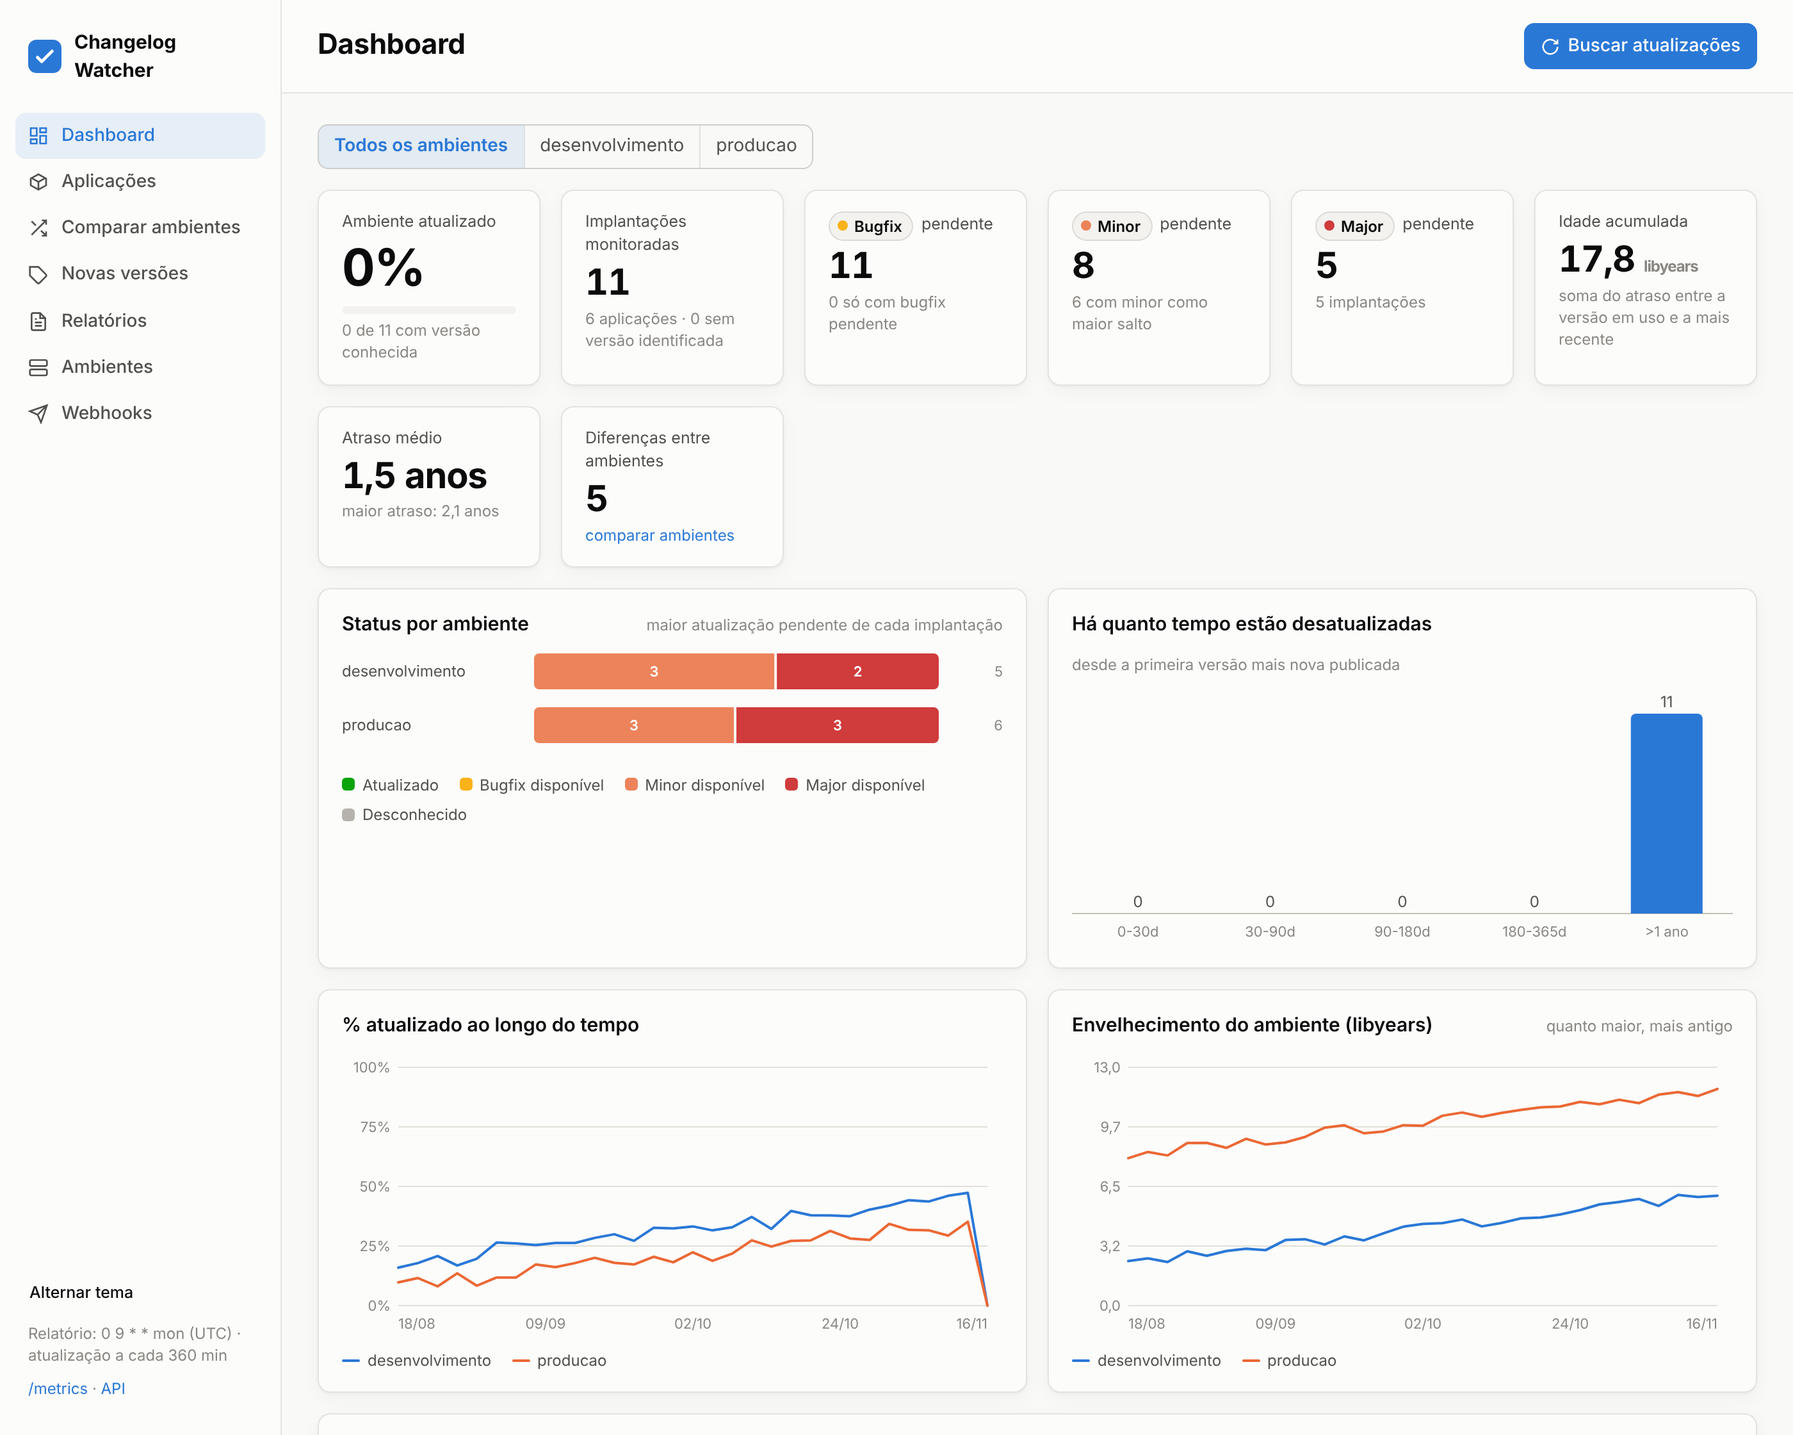
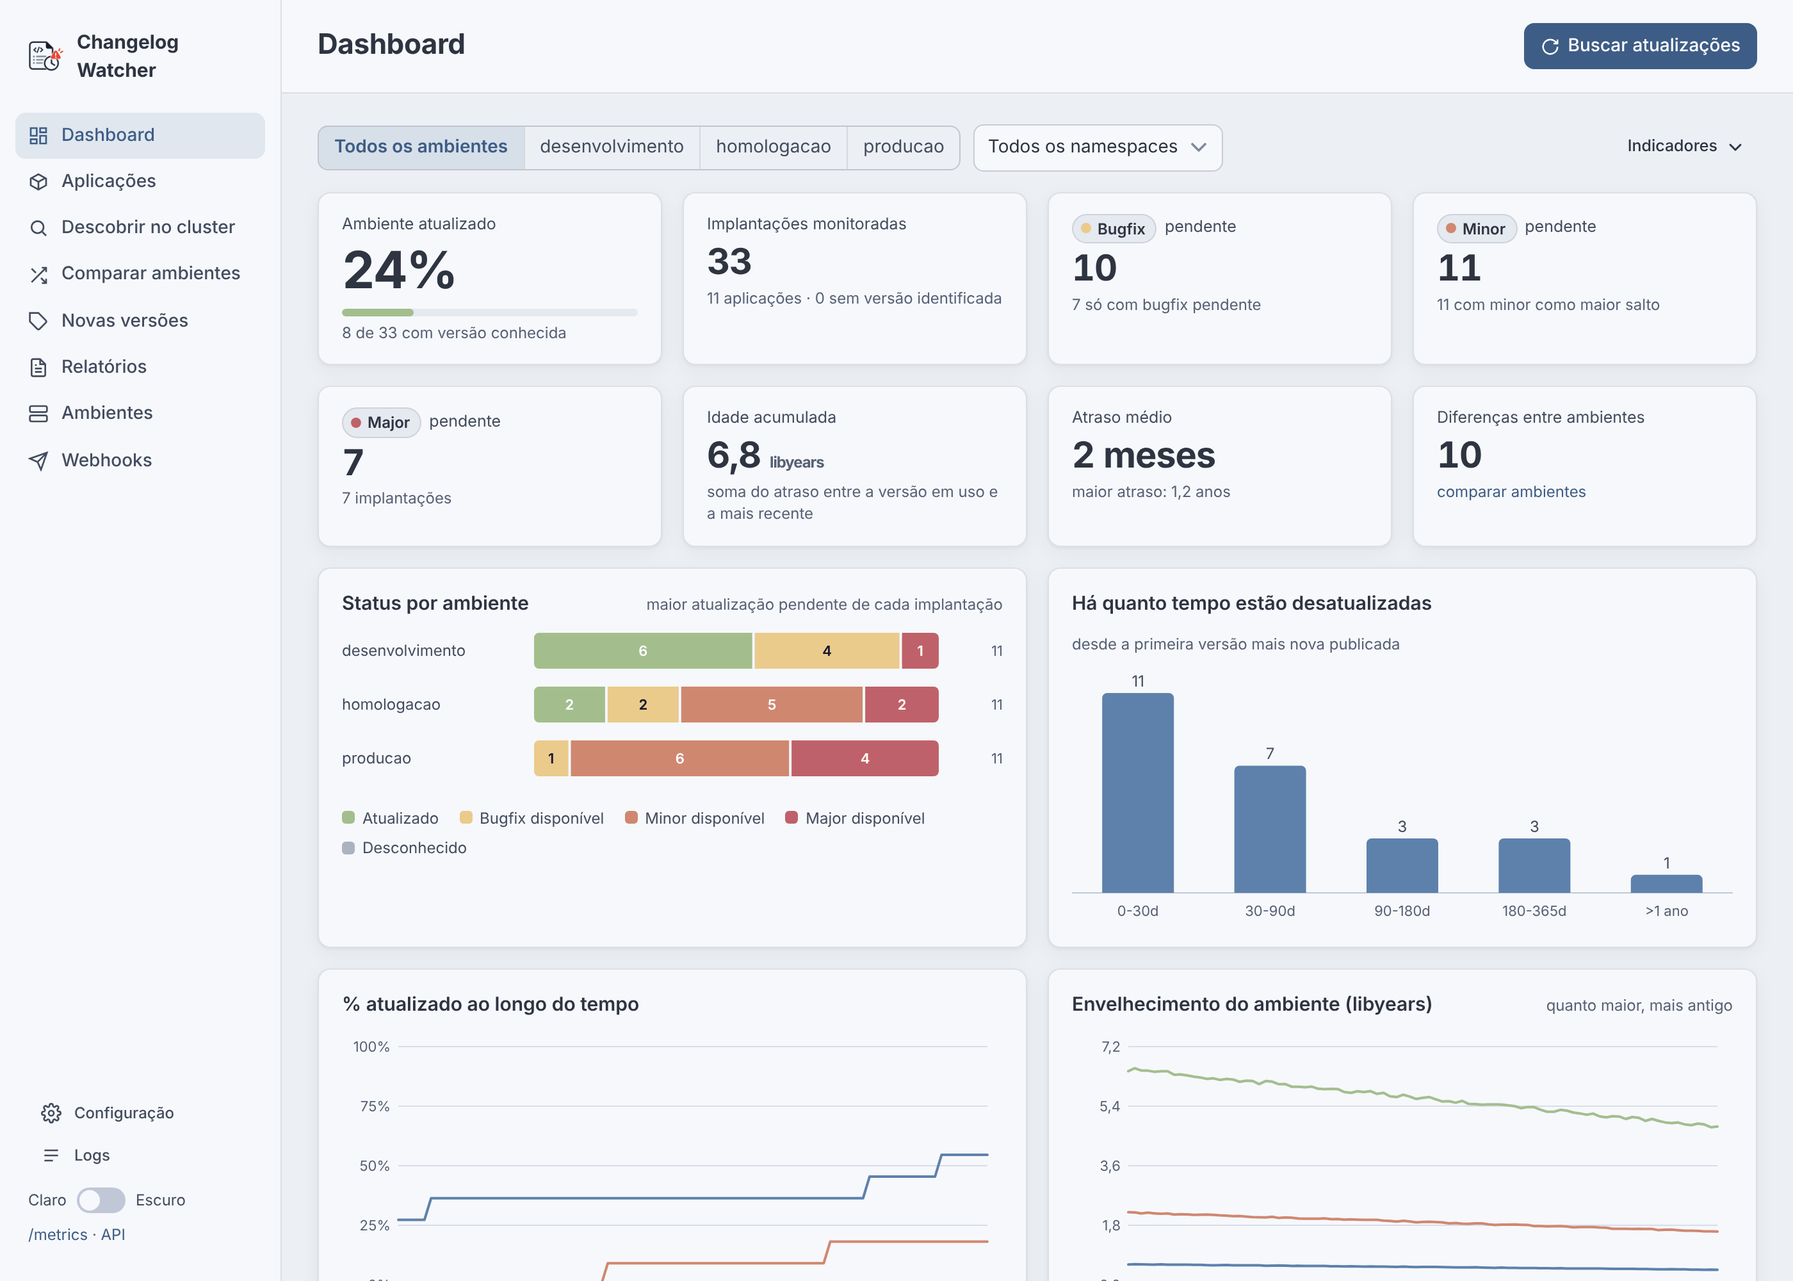
docs: atualiza capturas do README e adiciona as das outras telas
- substitui a captura antiga do dashboard (interface anterior) e adiciona
  Aplicações, detalhe da aplicação, Comparar ambientes, Novas versões,
  Relatórios e Descobrir no cluster (com o novo agrupamento por imagem);
- nova seção "Telas" no README e resumo da descoberta atualizado;
- docs/screenshots: script que monta um banco de demonstração sintético e
  script Playwright que captura as telas, para regerar as imagens.

diff --git a/docs/screenshots/build_demo.py b/docs/screenshots/build_demo.py
@@ -1,0 +1,224 @@
+"""Monta um banco SQLite de demonstração para as capturas de tela do README.
+
+Releases, versões em uso e histórico são sintéticos (datas relativas a hoje), então
+as telas ficam parecidas a cada execução e não dependem de rede.
+
+    python docs/screenshots/build_demo.py /tmp/demo.db /tmp/discover.json
+
+O segundo argumento recebe a resposta de /api/environments/{id}/discover para o
+cenário kube-prometheus-stack (a captura a intercepta, sem Prometheus de verdade).
+Veja docs/screenshots/README.md.
+"""
+
+from __future__ import annotations
+
+import asyncio
+import json
+import os
+import random
+import sys
+from datetime import datetime, timedelta, timezone
+from pathlib import Path
+
+db_path, discover_path = sys.argv[1], sys.argv[2]
+Path(db_path).unlink(missing_ok=True)
+os.environ.update(DATABASE_URL=f"sqlite:///{db_path}", AUTH_DISABLED="true", SCHEDULER_ENABLED="false",
+                  REFRESH_ON_STARTUP="false")
+
+import httpx  # noqa: E402
+import respx  # noqa: E402
+from sqlalchemy import select  # noqa: E402
+
+from changelog_watcher import prometheus as prom  # noqa: E402
+from changelog_watcher.analysis import compute_statuses, load_environments, summarize  # noqa: E402
+from changelog_watcher.db import init_engine, session_scope  # noqa: E402
+from changelog_watcher.models import Deployment, Environment, Project, Release, Snapshot, Webhook  # noqa: E402
+from changelog_watcher.refresh import store_snapshots  # noqa: E402
+from changelog_watcher.report import create_report  # noqa: E402
+
+NOW = datetime.now(timezone.utc).replace(microsecond=0)
+ENVS = ["desenvolvimento", "homologacao", "producao"]
+PROM_URL = "http://prometheus.monitoring:9090"
+
+# name, fields, [(versão, dias atrás)], {ambiente: versão em uso}; "*" = detectada via Prometheus
+PROJECTS = [
+    ("argo-cd", dict(tags=["plataforma", "gitops"], repository="argoproj/argo-cd", detection_mode="helm",
+                     workload_namespace="argocd", workload_name="argocd", image_pattern="quay.io/argoproj/argocd",
+                     description="GitOps do cluster"),
+     [("2.13.0", 400), ("2.13.3", 330), ("2.14.0", 300), ("2.14.9", 220), ("3.0.0", 190), ("3.0.6", 150),
+      ("3.1.0", 110), ("3.1.8", 60), ("3.2.0", 30), ("3.2.1", 4)],
+     {"desenvolvimento": "*3.2.0", "homologacao": "*3.1.8", "producao": "*2.14.9"}, "quay.io/argoproj/argocd:v"),
+    ("cert-manager", dict(tags=["plataforma"], repository="cert-manager/cert-manager", detection_mode="image",
+                          image_pattern="quay.io/jetstack/cert-manager-controller"),
+     [("1.16.0", 400), ("1.16.3", 320), ("1.17.0", 280), ("1.17.2", 200), ("1.18.0", 160), ("1.18.2", 100),
+      ("1.19.0", 45), ("1.19.1", 20), ("1.19.2", 1)],
+     {"desenvolvimento": "*1.19.1", "homologacao": "*1.19.1", "producao": "*1.19.1"},
+     "quay.io/jetstack/cert-manager-controller:v"),
+    ("kube-prometheus-stack", dict(tags=["observabilidade"], source_type="helm_index",
+                                   repository="https://prometheus-community.github.io/helm-charts",
+                                   chart_name="kube-prometheus-stack"),
+     [("70.0.0", 260), ("72.0.0", 220), ("75.0.0", 160), ("77.0.0", 110), ("78.0.0", 70), ("79.0.0", 40),
+      ("79.1.0", 18)],
+     {"desenvolvimento": "79.1.0", "homologacao": "78.0.0", "producao": "75.0.0"}, None),
+    ("kube-prometheus-stack-prometheus", dict(tags=["observabilidade"], repository="prometheus/prometheus",
+                                              detection_mode="helm", workload_namespace="kube-monitoring",
+                                              workload_name="kube-prometheus-stack-prometheus",
+                                              image_pattern="registry.intranet/prometheus/prometheus"),
+     [("3.4.0", 200), ("3.5.0", 140), ("3.6.0", 90), ("3.7.0", 55), ("3.7.3", 30), ("3.8.0", 10)],
+     {"desenvolvimento": "*3.8.0", "homologacao": "*3.7.3", "producao": "*3.7.0"},
+     "registry.intranet/prometheus/prometheus:v"),
+    ("kube-prometheus-stack-prometheus (thanos)", dict(tags=["observabilidade"], repository="thanos-io/thanos",
+                                                       detection_mode="helm", workload_namespace="kube-monitoring",
+                                                       workload_name="kube-prometheus-stack-prometheus",
+                                                       image_pattern="registry.intranet/thanosio/thanos"),
+     [("0.38.0", 250), ("0.39.0", 150), ("0.39.2", 110), ("0.40.0", 50), ("0.40.1", 25)],
+     {"desenvolvimento": "*0.40.1", "homologacao": "*0.40.1", "producao": "*0.39.2"},
+     "registry.intranet/thanosio/thanos:v"),
+    ("grafana", dict(tags=["observabilidade"], repository="grafana/grafana"),
+     [("11.5.0", 300), ("12.0.0", 200), ("12.1.0", 140), ("12.2.0", 80), ("12.3.0", 25), ("12.3.1", 3)],
+     {"desenvolvimento": "12.3.0", "homologacao": "12.2.0", "producao": "12.1.0"}, None),
+    ("ingress-nginx", dict(tags=["rede"], repository="kubernetes/ingress-nginx", tag_pattern=r"^controller-v(.*)$"),
+     [("1.11.3", 380), ("1.12.0", 280), ("1.12.1", 230), ("1.13.0", 130), ("1.13.3", 60), ("1.14.0", 25)],
+     {"desenvolvimento": "1.14.0", "homologacao": "1.13.3", "producao": "1.12.1"}, None),
+    ("keycloak", dict(tags=["seguranca"], repository="keycloak/keycloak"),
+     [("25.0.6", 400), ("26.0.0", 380), ("26.1.0", 300), ("26.2.0", 220), ("26.3.0", 130), ("26.4.0", 60),
+      ("26.4.5", 20), ("26.4.6", 2)],
+     {"desenvolvimento": "26.4.5", "homologacao": "26.4.0", "producao": "26.1.0"}, None),
+    ("postgres", dict(tags=["banco-de-dados"], source_type="dockerhub", repository="library/postgres",
+                      version_scheme="major_patch", detection_mode="workload", workload_kind="statefulset",
+                      workload_namespace="database", workload_name="postgres"),
+     [("16.4", 450), ("16.6", 370), ("16.8", 250), ("16.9", 190), ("16.10", 90), ("17.0", 420), ("17.2", 370),
+      ("17.4", 250), ("17.5", 190), ("17.6", 90), ("18.0", 60), ("18.1", 5)],
+     {"desenvolvimento": "*17.6", "homologacao": "*17.5", "producao": "*16.8"}, "postgres:"),
+    ("redis", dict(tags=["banco-de-dados"], source_type="dockerhub", repository="library/redis"),
+     [("7.4.0", 450), ("7.4.2", 320), ("8.0.0", 200), ("8.0.3", 120), ("8.2.0", 80), ("8.2.2", 30)],
+     {"desenvolvimento": "8.2.2", "homologacao": "8.0.3", "producao": "7.4.2"}, None),
+    ("minha-api", dict(tags=["produto"], source_type="changelog",
+                       repository="https://github.com/minha-org/minha-api/blob/main/CHANGELOG.md"),
+     [("2.1.0", 300), ("2.2.0", 200), ("2.3.0", 120), ("2.3.1", 90), ("2.4.0", 20)],
+     {"desenvolvimento": "2.4.0", "homologacao": "2.4.0", "producao": "2.3.1"}, None),
+]
+
+NOTES = {
+    0: "### Correções\n- Corrige vazamento de memória ao reconciliar recursos grandes\n- Ajusta timeout padrão das chamadas à API",
+    1: "### Novidades\n- Novo filtro por namespace na interface\n- Métricas de latência por operação\n\n### Correções\n- Logs duplicados ao reiniciar o pod",
+    2: "### Mudanças incompatíveis\n- Remove flags obsoletas desde a versão anterior\n- Requer Kubernetes 1.30 ou superior\n\n### Novidades\n- Nova API de configuração",
+}
+
+
+def kind_of(prev: str | None, ver: str, two_part: bool) -> int:
+    if prev is None:
+        return 1
+    a, b = prev.split("."), ver.split(".")
+    if a[0] != b[0]:
+        return 2
+    return 0 if (two_part or a[1] == b[1]) else 1
+
+
+init_engine()
+with session_scope() as s:
+    envs = {}
+    for i, name in enumerate(ENVS):
+        envs[name] = Environment(name=name, sort_order=i, prometheus_url=PROM_URL,
+                                 description={"desenvolvimento": "Cluster de desenvolvimento",
+                                              "homologacao": "Cluster de homologação",
+                                              "producao": "Cluster de produção"}[name])
+        s.add(envs[name])
+    s.flush()
+    for name, fields, versions, deployed, image in PROJECTS:
+        p = Project(name=name, last_checked_at=NOW - timedelta(minutes=random.Random(name).randint(3, 50)), **fields)
+        s.add(p)
+        s.flush()
+        tag = "controller-v{}" if fields.get("tag_pattern") else ("{}" if fields.get("source_type") in ("dockerhub", "changelog", "helm_index") else "v{}")
+        two = fields.get("version_scheme") == "major_patch"
+        prev = None
+        for ver, ago in sorted(versions, key=lambda v: -v[1]):
+            s.add(Release(project_id=p.id, tag=tag.format(ver), version=ver, title=tag.format(ver),
+                          published_at=NOW - timedelta(days=ago, hours=random.Random(ver).randint(0, 20)),
+                          notes=NOTES[kind_of(prev, ver, two)], first_seen_at=NOW - timedelta(days=ago)))
+            prev = ver
+        for env_name, ver in deployed.items():
+            detected = ver.startswith("*")
+            ver = ver.lstrip("*")
+            dep = Deployment(project_id=p.id, environment_id=envs[env_name].id,
+                             version_source="prometheus" if detected else "manual",
+                             manual_version=None if detected else ver)
+            if detected:
+                dep.detected_version, dep.detected_at = ver, NOW - timedelta(minutes=12)
+                dep.detected_image = f"{image}{ver}" if image else None
+            s.add(dep)
+    s.add(Webhook(name="slack-plataforma", kind="slack", url="${SLACK_WEBHOOK_URL}",
+                  last_sent_at=NOW - timedelta(days=3), last_status="HTTP 200"))
+    s.add(Webhook(name="teams-producao", kind="teams", url="${TEAMS_WEBHOOK_URL}", only_outdated=True,
+                  environment_ids=[envs["producao"].id], last_sent_at=NOW - timedelta(days=3), last_status="HTTP 200"))
+
+store_snapshots()
+
+# Histórico de 90 dias: parte dos valores de hoje e anda para trás com uma tendência suave.
+with session_scope() as s:
+    statuses = compute_statuses(s)
+    rnd = random.Random(42)
+    for env in load_environments(s):
+        today = summarize([st for st in statuses if st.environment_id == env.id])
+        ratio, libyears = today["up_to_date_ratio"] or 0.0, today["libyears"]
+        total = today["total"]
+        today_up = round(ratio * total)
+        drops = sorted(rnd.sample(range(5, 90), min(today_up, 3)))  # dias (para trás) em que houve atualização
+        for back in range(1, 91):
+            up = today_up - sum(1 for d in drops if d <= back)
+            rest = total - up
+            major = round(rest * 0.4)
+            minor = round(rest * 0.4)
+            snap = Snapshot(environment_id=env.id, day=(NOW - timedelta(days=back)).date(), total=total,
+                            up_to_date=up, patch=rest - major - minor, minor=minor, major=major, unknown=0,
+                            up_to_date_ratio=up / total if total else None,
+                            libyears=max(0.0, libyears * (1 + back * 0.004) * rnd.uniform(0.99, 1.01)),
+                            avg_outdated_days=today["avg_outdated_days"] * (1 + back * 0.002),
+                            max_outdated_days=today["max_outdated_days"], versions_behind=today["versions_behind"])
+            s.add(snap)
+    create_report(s, trigger="schedule")
+
+# Resposta da descoberta (cenário kube-prometheus-stack), com os projetos acima já monitorando parte das imagens.
+NS = "kube-monitoring"
+POD, AM = "prometheus-kube-prometheus-stack-prometheus-0", "alertmanager-kube-prometheus-stack-alertmanager-0"
+OP, GF = "kube-prometheus-stack-operator-5d9c7b-abcde", "kube-prometheus-stack-grafana-6c7f-zxcvb"
+REG = "registry.intranet"
+SERIES = {
+    "kube_pod_container_info": [
+        {"pod": POD, "container": "prometheus", "image": f"{REG}/prometheus/prometheus:v3.7.0"},
+        {"pod": POD, "container": "config-reloader", "image": f"{REG}/prometheus-operator/prometheus-config-reloader:v0.87.1"},
+        {"pod": POD, "container": "thanos-sidecar", "image": f"{REG}/thanosio/thanos:v0.39.2"},
+        {"pod": AM, "container": "alertmanager", "image": f"{REG}/prometheus/alertmanager:v0.29.0"},
+        {"pod": AM, "container": "config-reloader", "image": f"{REG}/prometheus-operator/prometheus-config-reloader:v0.87.1"},
+        {"pod": OP, "container": "operator", "image": f"{REG}/prometheus-operator/prometheus-operator:v0.87.1"},
+        {"pod": GF, "container": "grafana", "image": f"{REG}/grafana/grafana:12.1.0"},
+        {"pod": GF, "container": "grafana-sc-dashboard", "image": f"{REG}/kiwigrid/k8s-sidecar:1.30.10"},
+    ],
+    "kube_pod_owner": [
+        {"pod": POD, "owner_kind": "StatefulSet", "owner_name": "prometheus-kube-prometheus-stack-prometheus"},
+        {"pod": AM, "owner_kind": "StatefulSet", "owner_name": "alertmanager-kube-prometheus-stack-alertmanager"},
+        {"pod": OP, "owner_kind": "ReplicaSet", "owner_name": "kube-prometheus-stack-operator-5d9c7b"},
+        {"pod": GF, "owner_kind": "ReplicaSet", "owner_name": "kube-prometheus-stack-grafana-6c7f"},
+    ],
+    "kube_pod_labels": [
+        {"pod": POD, "label_app_kubernetes_io_instance": "kube-prometheus-stack-prometheus"},
+        {"pod": AM, "label_app_kubernetes_io_instance": "kube-prometheus-stack-alertmanager"},
+        {"pod": OP, "label_app_kubernetes_io_instance": "kube-prometheus-stack", "label_helm_sh_chart": "kube-prometheus-stack-75.0.0"},
+        {"pod": GF, "label_app_kubernetes_io_instance": "kube-prometheus-stack", "label_helm_sh_chart": "grafana-9.2.10"},
+    ],
+    "kube_secret_info": [{"secret": "sh.helm.release.v1.kube-prometheus-stack.v3"}],
+}
+
+
+def answer(request):
+    series = SERIES.get(request.url.params["query"].split("{", 1)[0], [])
+    return httpx.Response(200, json={"status": "success", "data": {"result": [
+        {"metric": {"namespace": NS, **m}, "value": [0, "1"]} for m in series]}})
+
+
+with session_scope() as s, respx.mock:
+    respx.get(f"{PROM_URL}/api/v1/query").mock(side_effect=answer)
+    env = s.scalar(select(Environment).where(Environment.name == "producao"))
+    groups = asyncio.run(prom.discover(env, NS, s.scalars(select(Project)).all()))
+Path(discover_path).write_text(json.dumps({"ok": True, "groups": groups}))
+print(f"banco: {db_path} · descoberta: {discover_path}")

diff --git a/README.md b/README.md
@@ -10,7 +10,8 @@ que está rodando em cada ambiente e avisa o que precisa ser atualizado.
   (imagem do Deployment/StatefulSet/DaemonSet via kube-state-metrics), inclusive
   agrupando **todos os workloads de um release Helm** como uma única aplicação.
 - **Descoberta no cluster**: lista o que roda num namespace agrupado por release
-  Helm e cria a aplicação com um clique, apontando para o repositório ou site de releases.
+  Helm (com os releases criados por operadores ligados ao release pai) e cria uma
+  aplicação por imagem com um clique, apontando para o repositório ou site de releases.
 - **Vários ambientes** (dev, homologação, produção…), cada um com seu Prometheus,
   e **comparação de versões entre ambientes**.
 - Para cada aplicação/ambiente: **bugfix** mais recente da linha em uso
@@ -22,7 +23,41 @@ que está rodando em cada ambiente e avisa o que precisa ser atualizado.
 - **Métricas Prometheus** em `/metrics`, **dashboard do Grafana** e **chart Helm**
   inclusos.
 
-![dashboard](docs/dashboard.png)
+![Dashboard: % atualizado, pendências por bugfix/minor/major, atraso e evolução por ambiente](docs/dashboard.png)
+
+## Telas
+
+**Aplicações**: versão em uso em cada ambiente, a maior atualização pendente e a versão
+mais recente, com filtros por status, ambiente, tag e namespace.
+
+![Lista de aplicações com a versão e o status em cada ambiente](docs/aplicacoes.png)
+
+**Detalhe da aplicação**: por ambiente, a versão em uso (manual ou detectada via
+Prometheus, com a imagem), o bugfix/minor/major disponível, há quanto tempo está
+atrasada e o changelog pendente; abaixo, todas as versões publicadas com as notas.
+
+![Detalhe do argo-cd com um cartão por ambiente e as notas das versões](docs/aplicacao.png)
+
+**Comparar ambientes**: o que está à frente ou atrás entre dois ambientes (ex.:
+produção × desenvolvimento), com as versões entre eles, e a matriz de versões de
+todos os ambientes.
+
+![Comparação produção × desenvolvimento](docs/comparar.png)
+
+**Novas versões**: releases publicadas nos últimos 7/14/30/90 dias que ainda não
+estão em uso, com o tipo de atualização e a versão de cada ambiente.
+
+![Novas versões dos últimos 7 dias](docs/novas-versoes.png)
+
+**Relatórios**: o relatório semanal (resumo por ambiente, novas versões e aplicações
+desatualizadas) com o histórico, a prévia e o envio aos webhooks.
+
+![Relatório semanal gerado](docs/relatorio.png)
+
+A tela **Descobrir no cluster** está em
+[Releases Helm e descoberta no cluster](#releases-helm-e-descoberta-no-cluster). As
+imagens usam dados de demonstração; veja [docs/screenshots](docs/screenshots/README.md)
+para regerá-las.
 
 ## Como as versões são classificadas
 
@@ -104,6 +139,8 @@ os workloads agrupados por release:
   pelo release, ou pods com label `app.kubernetes.io/part-of`/`release` apontando para
   ele (inclua esses labels no allowlist acima para usá-los). Workloads de subcharts
   mostram o próprio `helm.sh/chart`.
+
+![Descoberta do kube-prometheus-stack: uma linha por imagem e os releases do operator ligados ao release Helm](docs/descobrir.png)
 
 **Monitorar** abre o formulário já preenchido; informe de onde vêm as releases:
 repositório GitHub/GitLab, CHANGELOG, repositório Helm ou a URL de uma **página

diff --git a/docs/screenshots/README.md b/docs/screenshots/README.md
@@ -1,0 +1,33 @@
+# Capturas de tela do README
+
+As imagens em `docs/*.png` são geradas a partir de um banco de demonstração com
+dados sintéticos (releases, versões em uso e histórico relativos à data de hoje),
+sem acesso à rede nem a um Prometheus de verdade. A tela **Descobrir no cluster**
+usa uma resposta simulada do cenário `kube-prometheus-stack`.
+
+Requer as dependências de desenvolvimento (`pip install -e ".[dev]"`) e o
+Playwright para Node com o Chromium instalado.
+
+```bash
+python docs/screenshots/build_demo.py /tmp/demo.db /tmp/discover.json
+```
+
+```bash
+DATABASE_URL=sqlite:////tmp/demo.db AUTH_DISABLED=true SCHEDULER_ENABLED=false REFRESH_ON_STARTUP=false changelog-watcher serve --port 8099
+```
+
+Em outro terminal:
+
+```bash
+node docs/screenshots/capture.mjs http://127.0.0.1:8099 /tmp/discover.json docs
+```
+
+Para reduzir o tamanho (paleta de 256 cores, sem perda visível em telas de UI):
+
+```bash
+python -c "
+from PIL import Image; import sys
+for f in sys.argv[1:]:
+    Image.open(f).convert('RGB').quantize(256, method=Image.Quantize.MEDIANCUT, dither=Image.Dither.NONE).save(f, optimize=True)
+" docs/*.png
+```
